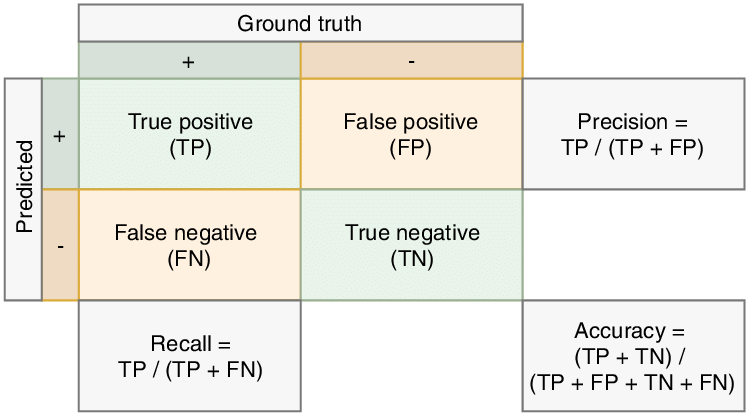
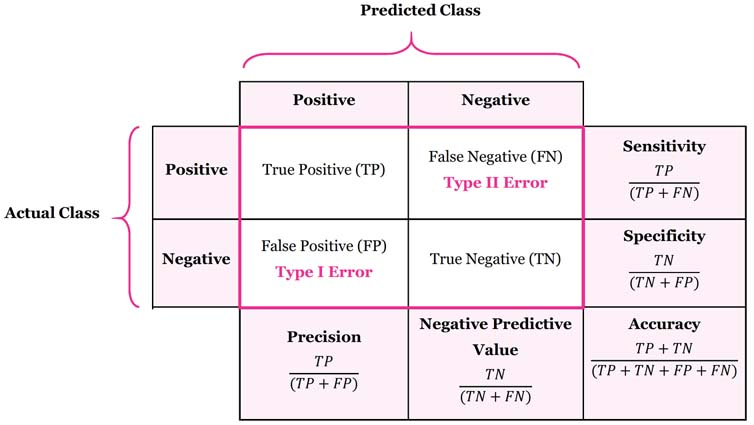
Update

diff --git a/docs/ds/ml/metrics.md b/docs/ds/ml/metrics.md
@@ -23,6 +23,8 @@ Category
 
 ![confusion-matrix](imgs/confusion-matrix.png){width=500}
 
+source: [What is Confusion Matrix and Advanced Classification Metrics?](https://manisha-sirsat.blogspot.com/2019/04/confusion-matrix.html)
+
 $$
 \mathrm{Precision} = \frac {\mathrm{TP}}{\mathrm{TP+FP}}
 $$
@@ -69,7 +71,7 @@ fpr, tpr, thresholds = roc_curve(y_train_5, y_scores)
 
 ### ROC curve
 
-![roc](../imgs/roc.png)
+![roc](../imgs/roc.png){width="400"}
 
 | Library          | API                               | Reference                                                    |
 | ---------------- | --------------------------------- | ------------------------------------------------------------ |
@@ -105,7 +107,7 @@ def plot_roc_curve(recalls, precisions, fpr, tpr, label=None):
 
 ### Precision-Recall curve
 
-![precision-recall-curve](../imgs/precision-recall-curve-1.png){width="300"}
+![precision-recall-curve](../imgs/precision-recall-curve-1.png){width="400"}
 
 | Library          | API                                           | Reference                                                    |
 | ---------------- | --------------------------------------------- | ------------------------------------------------------------ |
@@ -132,7 +134,7 @@ def plot_precision_vs_recall(precisions, recalls):
     plt.show()
 ```
 
-![precision-recall-curve-2](../imgs/precision-recall-curve-2.png)
+![precision-recall-curve-2](../imgs/precision-recall-curve-2.png){width="400"}
 
 ## Regression
 

diff --git a/docs/ds/dl/cnn.md b/docs/ds/dl/cnn.md
@@ -1,0 +1,2 @@
+Convolutional Neural Network
+===

diff --git a/docs/ds/dl/rnn.md b/docs/ds/dl/rnn.md
@@ -1,0 +1,2 @@
+Recurrent Neural Network
+===

diff --git a/docs/ds/dl/index.md b/docs/ds/dl/index.md
@@ -1,0 +1,2 @@
+Deep Learning
+===

diff --git a/docs/ds/dl/transformer.md b/docs/ds/dl/transformer.md
@@ -1,0 +1,2 @@
+Transformer
+===
